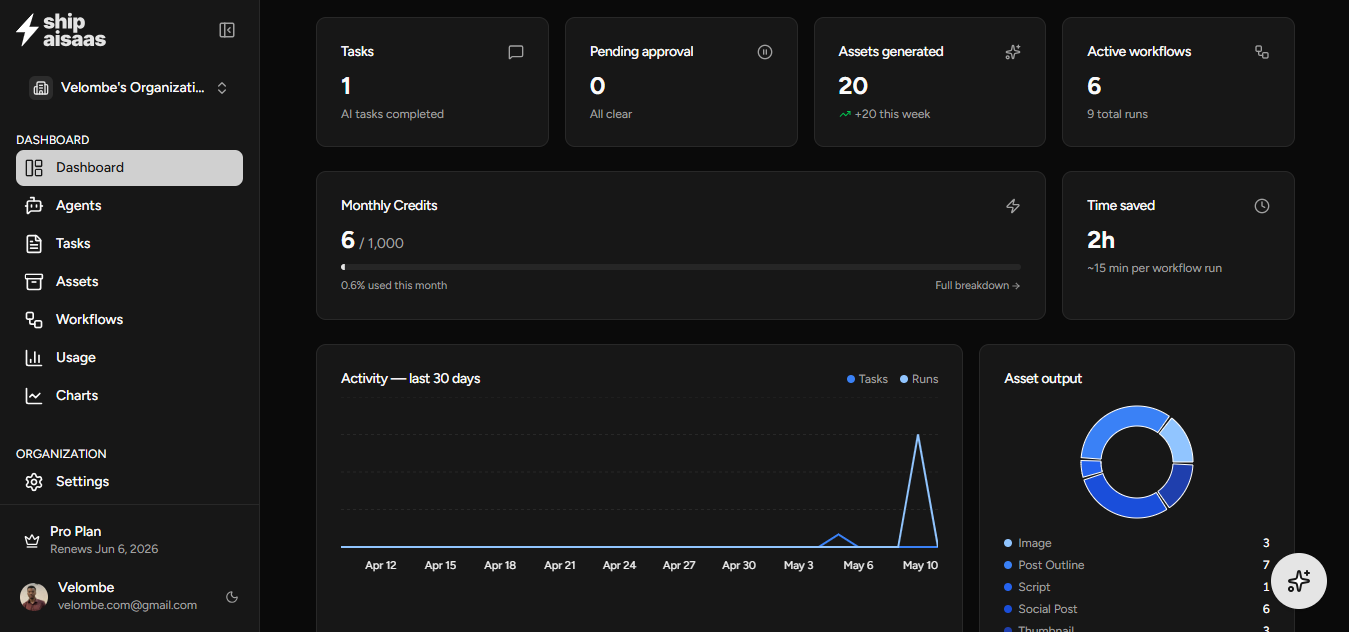
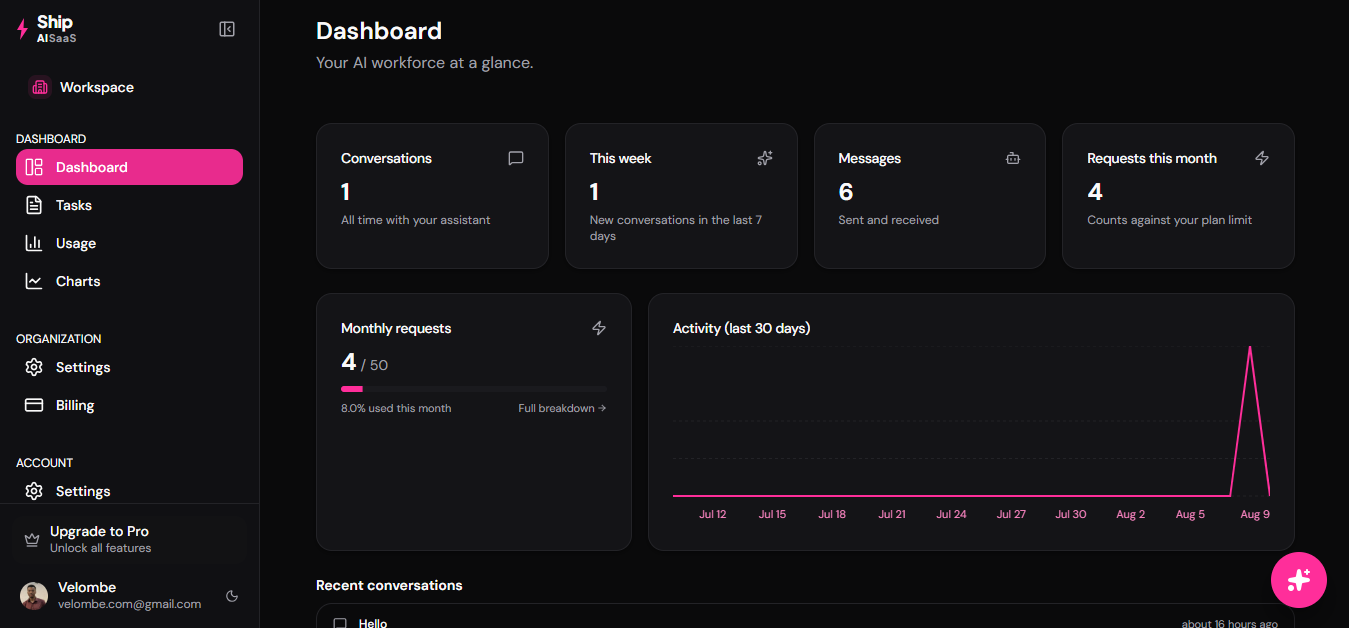
feat(design): light the hero screenshot properly
New dashboard capture, and the frame around it was doing nothing for it —
a flat shadow-2xl that left it floating rather than seated on the page.

Replaced with a --shadow-screenshot token, tuned per theme. Dark: black
shadow does almost nothing against a near-black canvas, so a wide brand
halo does the separating. Light: the reverse — real ambient depth, and
the halo drops well below --shadow-glow because pink blooming on a
near-white canvas turns garish fast.

Two things the shadow needed to actually look right:

Five black layers on a doubling blur/offset ramp rather than one or two
big ones. A real penumbra decays continuously; two shadows composite into
a visible step where each one's blur ends.

Small spreads. A shadow layer's corner radius is `border-radius + spread`,
so against the frame's rounded-2xl (32px) the first attempt's -32px and
-45px layers rendered perfectly square corners under a round image. Every
spread now stays inside -14px, and alphas came down to compensate for the
wider coverage that buys.

The top bezel highlight is an empty overlay div above the image, not an
inset shadow on the frame — inset shadows paint beneath child content and
the image would have hidden it entirely.

Also in globals.css: --shadow-glow was defined but never registered in
@theme, so no shadow-glow utility existed for it; and --radius-xl was
declared twice, the second silently winning. Both resolved.

diff --git a/styles/globals.css b/styles/globals.css
@@ -77,6 +77,29 @@
   --shadow-2xl: 0 40px 80px -20px rgb(0 0 0 / 0.28);
   --shadow-glow: 0 0 40px -8px rgba(255, 46, 154, 0.45);
 
+  /* Product screenshot. Five black layers on a roughly doubling blur/offset
+     ramp with gently falling alpha — a real penumbra fades continuously, and
+     one or two big shadows always read as a hard double edge instead. The
+     brand halo is split into a tight bloom plus a wide one so it dissolves
+     rather than stopping, and stays far softer than --shadow-glow: pink
+     blooming on a near-white canvas turns garish fast.
+
+     Spreads stay small on purpose. A shadow layer's corner radius is
+     `border-radius + spread`, so against the frame's rounded-2xl (32px) any
+     spread at or beyond -32px renders square corners under a round image.
+     Keep every spread well inside that and the shadow tracks the frame. */
+  --shadow-screenshot:
+    0 2px 4px -1px rgba(0, 0, 0, 0.06),
+    0 6px 12px -2px rgba(0, 0, 0, 0.055),
+    0 14px 28px -4px rgba(0, 0, 0, 0.05),
+    0 28px 52px -6px rgba(0, 0, 0, 0.045),
+    0 52px 92px -8px rgba(0, 0, 0, 0.04),
+    0 0 60px -8px rgba(255, 46, 154, 0.10),
+    0 0 140px -12px rgba(255, 46, 154, 0.16);
+  /* Light catching the top bezel. Drawn as an overlay, not an inset on the
+     frame — inset shadows paint beneath child content, so the image hides it. */
+  --screenshot-highlight: rgba(255, 255, 255, 0.55);
+
   --tracking-normal: 0em;
   --spacing: 0.25rem;
 }
@@ -148,6 +171,18 @@
   --shadow-xl: 0 24px 48px -12px rgb(0 0 0 / 0.70);
   --shadow-2xl: 0 40px 80px -20px rgb(0 0 0 / 0.80);
   --shadow-glow: 0 0 48px -6px rgba(255, 46, 154, 0.55);
+
+  /* Same ramp as light. Black shadow does almost nothing against a near-black
+     canvas, so the halo carries more of the separation here. */
+  --shadow-screenshot:
+    0 2px 4px -1px rgba(0, 0, 0, 0.30),
+    0 6px 12px -2px rgba(0, 0, 0, 0.26),
+    0 14px 28px -4px rgba(0, 0, 0, 0.23),
+    0 28px 52px -6px rgba(0, 0, 0, 0.20),
+    0 52px 92px -8px rgba(0, 0, 0, 0.18),
+    0 0 70px -8px rgba(255, 46, 154, 0.15),
+    0 0 160px -14px rgba(255, 46, 154, 0.25);
+  --screenshot-highlight: rgba(255, 255, 255, 0.14);
 }
 
 @theme inline {
@@ -199,9 +234,8 @@
   --radius-sm: calc(var(--radius) - 8px);
   --radius-md: calc(var(--radius) - 4px);
   --radius-lg: var(--radius);
-  --radius-xl: calc(var(--radius) + 8px);
-  --radius-2xl: calc(var(--radius) + 16px);
   --radius-xl: calc(var(--radius) + 4px);
+  --radius-2xl: calc(var(--radius) + 16px);
 
   --shadow-2xs: var(--shadow-2xs);
   --shadow-xs: var(--shadow-xs);
@@ -211,6 +245,8 @@
   --shadow-lg: var(--shadow-lg);
   --shadow-xl: var(--shadow-xl);
   --shadow-2xl: var(--shadow-2xl);
+  --shadow-glow: var(--shadow-glow);
+  --shadow-screenshot: var(--shadow-screenshot);
 
   --animate-marquee: marquee 35s linear infinite;
 }

diff --git a/components/sections/hero-landing.tsx b/components/sections/hero-landing.tsx
@@ -166,7 +166,7 @@ export default function HeroLanding() {
             }}
             aria-hidden
           />
-          <div className="border-border bg-card relative z-10 overflow-hidden rounded-2xl border shadow-2xl">
+          <div className="border-border bg-card shadow-screenshot relative z-10 overflow-hidden rounded-2xl border">
             <Image
               src="/_static/ui-ss/dashboard.png"
               alt="Dashboard preview"
@@ -174,6 +174,16 @@ export default function HeroLanding() {
               height={632}
               priority
               className="w-full object-cover object-top"
+            />
+            {/* Light on the top bezel. It has to be an empty overlay above the
+                image: an inset shadow on the frame would paint under the
+                image and never be seen. */}
+            <div
+              className="pointer-events-none absolute inset-0 rounded-2xl"
+              style={{
+                boxShadow: "inset 0 1px 0 0 var(--screenshot-highlight)",
+              }}
+              aria-hidden
             />
           </div>
         </div>
